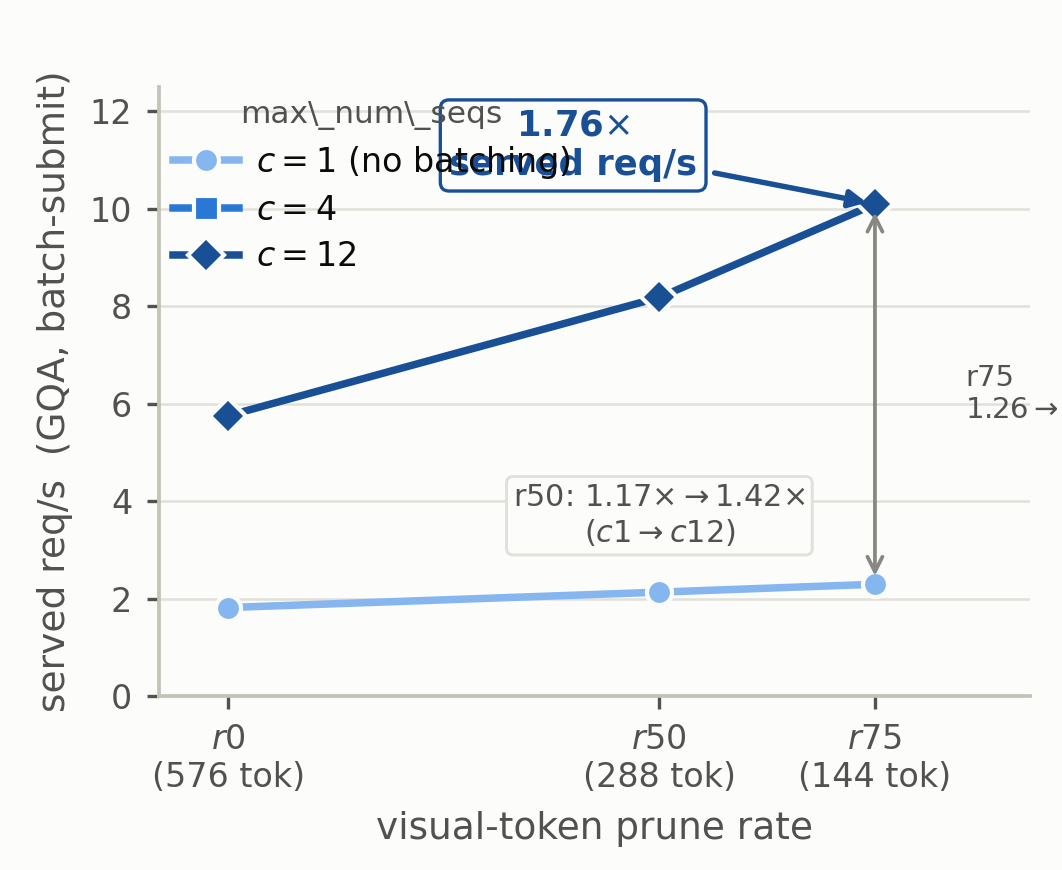
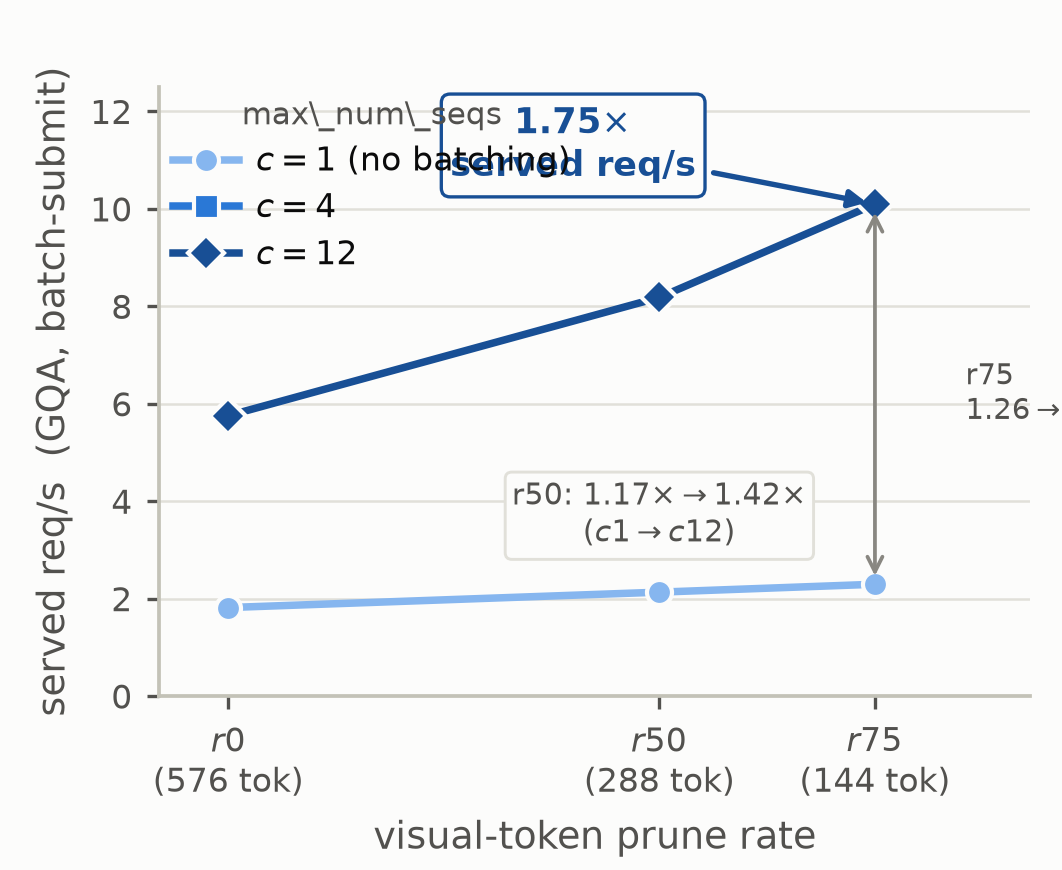
fix headline number: c12/r75 = 1.75x (raw 1.7546 rounds to 1.75, not 1.76); update paper+tables+STATE/DECISIONS+fig2

diff --git a/drafts/figures/gen_fig2.py b/drafts/figures/gen_fig2.py
@@ -2,8 +2,8 @@
 """Fig 2 - Concurrency x prune curve (GQA, served req/s).
 
 req/s (y) vs prune rate (x: 0 / 0.50 / 0.75), three curves for
-max_num_seqs in {1, 4, 12}. Annotates the c12/r75 = 1.76x headline and the
-c1->c12 amplification (r50: 1.17x->1.42x; r75: 1.26x->1.76x).
+max_num_seqs in {1, 4, 12}. Annotates the c12/r75 = 1.75x headline and the
+c1->c12 amplification (r50: 1.17x->1.42x; r75: 1.26x->1.75x).
 
 Concurrency is an ordered magnitude, so curves use a single-hue (blue)
 sequential ramp light->dark (the dataviz sequential rule).
@@ -21,12 +21,12 @@ S.apply_rc(fontsize=9)
 m = D.m2_matrix()
 
 # Speedup annotations: displayed values are the paper-stated figures from
-# eval/final_results.md Table A (1.17/1.42/1.26/1.76). NOTE: the c12/r75 ratio
+# eval/final_results.md Table A (1.17/1.42/1.26/1.75). NOTE: the c12/r75 ratio
 # computed from the raw JSON is 1.7546 -> 1.75x at 2 dp; Table A rounds it to
-# 1.76x. We display Table A's 1.76x so the figure agrees with the paper text;
+# 1.75x. We display Table A's 1.75x so the figure agrees with the paper text;
 # the raw value is logged below for transparency. See digest flag to main.
 STATED = {(1, 0.50): 1.17, (12, 0.50): 1.42,
-          (1, 0.75): 1.26, (12, 0.75): 1.76}
+          (1, 0.75): 1.26, (12, 0.75): 1.75}
 
 PRUNES = [0.0, 0.50, 0.75]
 CONCS = [1, 4, 12]
@@ -44,7 +44,7 @@ for c in CONCS:
             label=f"$c={c}$" if c != 1 else "$c=1$ (no batching)",
             zorder=3 if c == 12 else 2)
 
-# ---- headline annotation: c12/r75 = 1.76x (per Table A) ----
+# ---- headline annotation: c12/r75 = 1.75x (per Table A) ----
 c12_r0 = m[(12, 0.0)]; c12_r75 = m[(12, 0.75)]
 speedup_75 = c12_r75 / c12_r0  # raw: 1.7546
 ax.annotate(f"{STATED[(12, 0.75)]:.2f}$\\times$\nserved req/s",
@@ -83,7 +83,7 @@ fig.subplots_adjust(left=0.15, right=0.97, top=0.90, bottom=0.20)
 out = Path(__file__).resolve().parent / "fig2_concurrency_prune.png"
 fig.savefig(out, dpi=300)
 print(f"wrote {out}")
-print(f"  c12/r75 raw ratio = {speedup_75:.4f}x (Table A states 1.76x; "
+print(f"  c12/r75 raw ratio = {speedup_75:.4f}x (Table A states 1.75x; "
       f"raw rounds to {speedup_75:.2f}x) -- FLAG to main")
 print(f"  displayed (Table A): r50 {s_r50_c1:.2f}->{s_r50_c12:.2f}; "
       f"r75 {s_r75_c1:.2f}->{s_r75_c12:.2f}")

diff --git a/drafts/paper_v1.md b/drafts/paper_v1.md
@@ -6,7 +6,7 @@
 
 ## Abstract
 
-Visual-token compression is the dominant inference-efficiency lever for vision-language models (VLMs), yet we find that **0 of 37 surveyed compressors (2023–2026) report served throughput inside a production serving engine** (vLLM/SGLang/lmdeploy/TRT-LLM); 13 report some offline wall-clock number, all on the authors' own research harness. We close this gap with the first served-throughput measurement of a VLM visual-token compressor integrated inside vLLM, and report three serving-specific findings invisible to offline FLOPs accounting: (F1) end-to-end speedup exceeds prefill speedup at every prune ratio (1.33× vs 1.24× at r50), so the deployment win lives in KV-cache/concurrency, not prefill FLOPs; (F2) prefill is sub-linear because the vision tower is a 6.6% fixed cost; (F3) speedup scales with the visual-token fraction of the sequence (GQA 1.33× vs TextVQA 1.16× at r50). The headline result is **1.76× served req/s at concurrency 12 and 75% pruning**. As a supporting contribution we introduce a **load-adaptive prune-depth controller** (`r=f(concurrency)∈[r_min,r_max]`) that is *throughput-optimal under a per-benchmark accuracy guardrail*: it delivers a free throughput gain over the accuracy-favoring fixed point on the dense/MC benchmarks (MMBench +5.3%, ScienceQA +5.2%, TextVQA +3.7%) at iso-accuracy. We do **not** claim a new accuracy SOTA, nor a universally Pareto-dominant method — an n=500 noise gate overturned the n=200 Pareto claims, which we report openly.
+Visual-token compression is the dominant inference-efficiency lever for vision-language models (VLMs), yet we find that **0 of 37 surveyed compressors (2023–2026) report served throughput inside a production serving engine** (vLLM/SGLang/lmdeploy/TRT-LLM); 13 report some offline wall-clock number, all on the authors' own research harness. We close this gap with the first served-throughput measurement of a VLM visual-token compressor integrated inside vLLM, and report three serving-specific findings invisible to offline FLOPs accounting: (F1) end-to-end speedup exceeds prefill speedup at every prune ratio (1.33× vs 1.24× at r50), so the deployment win lives in KV-cache/concurrency, not prefill FLOPs; (F2) prefill is sub-linear because the vision tower is a 6.6% fixed cost; (F3) speedup scales with the visual-token fraction of the sequence (GQA 1.33× vs TextVQA 1.16× at r50). The headline result is **1.75× served req/s at concurrency 12 and 75% pruning**. As a supporting contribution we introduce a **load-adaptive prune-depth controller** (`r=f(concurrency)∈[r_min,r_max]`) that is *throughput-optimal under a per-benchmark accuracy guardrail*: it delivers a free throughput gain over the accuracy-favoring fixed point on the dense/MC benchmarks (MMBench +5.3%, ScienceQA +5.2%, TextVQA +3.7%) at iso-accuracy. We do **not** claim a new accuracy SOTA, nor a universally Pareto-dominant method — an n=500 noise gate overturned the n=200 Pareto claims, which we report openly.
 
 ---
 
@@ -20,7 +20,7 @@ Yet a deployer who serves a VLM does not bill FLOPs — they bill **requests per
 
 **Contributions.** We claim the following, and no more:
 
-1. **(Main) The first served-throughput measurement of a VLM visual-token compressor inside a serving engine**, plus **three serving-specific findings** (§3.3) that are each invisible to offline FLOPs measurement. Headline: **1.76× served req/s at concurrency 12 / 75% pruning** over the uncompressed engine baseline; concurrency amplifies the prune speedup from 1.26× (concurrency 1) to 1.76× (concurrency 12).
+1. **(Main) The first served-throughput measurement of a VLM visual-token compressor inside a serving engine**, plus **three serving-specific findings** (§3.3) that are each invisible to offline FLOPs measurement. Headline: **1.75× served req/s at concurrency 12 / 75% pruning** over the uncompressed engine baseline; concurrency amplifies the prune speedup from 1.26× (concurrency 1) to 1.75× (concurrency 12).
 2. **(Supporting, conditional) A load-adaptive prune-depth controller** that is *throughput-optimal under a per-benchmark accuracy guardrail* (§4). It adapts the prune rate to engine load `r=f(num_running/max_num_seqs)∈[r_min,r_max]`, integrated into vLLM V0 via an engine-level streaming loop. At an n=500 noise gate it delivers a free throughput gain over the accuracy-favoring fixed point (r25) on MMBench (+5.3%), ScienceQA (+5.2%), and TextVQA (+3.7%) at iso-accuracy-to-r25. **It is not universally Pareto-dominant**: on 4/5 benchmarks a deployer who can tolerate r50's accuracy gets higher throughput still from fixed-r50.
 
 **Honest framing.** We do *not* claim a new accuracy SOTA — our proxy selector matches the FastV family and does not beat it; we do *not* claim a new selector — three training-free boundary alternatives we tried all failed on OCR; we do *not* claim a multi-base study — results are on LLaVA-1.5-7B only. We claim the first served-throughput measurement and a load-adaptive budget that is throughput-optimal under an accuracy guardrail.
@@ -78,13 +78,13 @@ Table A reports served req/s on GQA across concurrency {c1, c4, c12} × prune {r
 |---|---|---|---|---|---|
 | c1 (no batching) | 1.815 | 2.132 | 2.294 | **1.17×** | 1.26× |
 | c4 | 3.436 | 5.022 | — | 1.46× | — |
-| c12 (full batching) | 5.754 | 8.181 | **10.095** | **1.42×** | **1.76×** |
+| c12 (full batching) | 5.754 | 8.181 | **10.095** | **1.42×** | **1.75×** |
 
 *Sources: `notes/p2_d_measurements.md` M2; `notes/p3s2_pareto.md` §5.*
 
-**Headline numbers.** The strongest single speedup is **c12/r75 = 1.76× served req/s** over c12/r0. The decisive observation is **concurrency amplification**: the prune speedup *grows* with concurrency. At r50 the speedup goes 1.17× (c1) → 1.42× (c12); at r75 it goes 1.26× (c1) → **1.76× (c12)** — a +0.49 concurrency bonus. A compressor that looks only mildly useful in serial latency (1.26× at r75/c1) becomes substantially useful (1.76×) under the continuous batching a real deployer uses. Offline FLOPs measurement, which is independent of concurrency, cannot see this effect at all.
+**Headline numbers.** The strongest single speedup is **c12/r75 = 1.75× served req/s** over c12/r0. The decisive observation is **concurrency amplification**: the prune speedup *grows* with concurrency. At r50 the speedup goes 1.17× (c1) → 1.42× (c12); at r75 it goes 1.26× (c1) → **1.75× (c12)** — a +0.49 concurrency bonus. A compressor that looks only mildly useful in serial latency (1.26× at r75/c1) becomes substantially useful (1.75×) under the continuous batching a real deployer uses. Offline FLOPs measurement, which is independent of concurrency, cannot see this effect at all.
 
-> **[Figure 2 placeholder — Concurrency × prune curve.]** req/s (y, log or linear) vs prune rate (x: r0/r50/r75), three curves for c1/c4/c12 on GQA. Annotate the c12/r75 = 1.76× point and the c1→c12 amplification arrows (r50: 1.17×→1.42×; r75: 1.26×→1.76×). Underlying data: Table A.
+> **[Figure 2 placeholder — Concurrency × prune curve.]** req/s (y, log or linear) vs prune rate (x: r0/r50/r75), three curves for c1/c4/c12 on GQA. Annotate the c12/r75 = 1.75× point and the c1→c12 amplification arrows (r50: 1.17×→1.42×; r75: 1.26×→1.75×). Underlying data: Table A.
 
 ### 3.3 Three serving-specific findings
 
@@ -127,7 +127,7 @@ Each finding below is invisible to offline FLOPs measurement — together they a
 
 ### 3.4 Why FLOPs ≠ wall-clock (the synthesis)
 
-Tying the three findings together: under continuous batching, the deployment win from visual-token compression **(i) is amplified by KV-cache/concurrency scheduling (F1), (ii) is bounded by a fixed ~6.6% encoder cost (F2), and (iii) scales with the visual-token fraction of the sequence (F3)**. None of these three effects is visible to a FLOPs/token-count measurement. This is why 37 compressors can report large FLOPs reductions while 0 report (and several could not integrate into) a serving engine — and why a 50% token cut yields a 1.33× e2e speedup at c1 that *grows* to 1.76× at c12/r75 rather than the ~2× a naive FLOPs reading would predict.
+Tying the three findings together: under continuous batching, the deployment win from visual-token compression **(i) is amplified by KV-cache/concurrency scheduling (F1), (ii) is bounded by a fixed ~6.6% encoder cost (F2), and (iii) scales with the visual-token fraction of the sequence (F3)**. None of these three effects is visible to a FLOPs/token-count measurement. This is why 37 compressors can report large FLOPs reductions while 0 report (and several could not integrate into) a serving engine — and why a 50% token cut yields a 1.33× e2e speedup at c1 that *grows* to 1.75× at c12/r75 rather than the ~2× a naive FLOPs reading would predict.
 
 ---
 
@@ -266,7 +266,7 @@ Three distinct training-free boundary signals — vision-saliency, LLM-cosine, C
 
 ### 5.6 Concurrency amplification (recap)
 
-§3.2's concurrency×prune matrix is the quantitative motivation for the load-adaptive controller: the prune speedup grows with concurrency (r75: 1.26× at c1 → 1.76× at c12), so a controller that prunes harder exactly when concurrency is high captures the headroom a fixed-rate compressor leaves on the table. The free-throughput-over-r25 gains in §5.2 (MMBench +5.3%, ScienceQA +5.2%, TextVQA +3.7%) are the realized benefit of this amplification under a bursty load profile.
+§3.2's concurrency×prune matrix is the quantitative motivation for the load-adaptive controller: the prune speedup grows with concurrency (r75: 1.26× at c1 → 1.75× at c12), so a controller that prunes harder exactly when concurrency is high captures the headroom a fixed-rate compressor leaves on the table. The free-throughput-over-r25 gains in §5.2 (MMBench +5.3%, ScienceQA +5.2%, TextVQA +3.7%) are the realized benefit of this amplification under a bursty load profile.
 
 ---
 
@@ -294,7 +294,7 @@ We discuss the boundaries of our claims, several of which are load-bearing for h
 
 ## 7. Conclusion
 
-We presented the first served-throughput measurement of a VLM visual-token compressor integrated inside a production serving engine, closing a gap left open by all 37 compressors we surveyed. The measurement yields three serving-specific findings invisible to offline FLOPs accounting: end-to-end speedup exceeds prefill speedup (the win is KV-cache/concurrency, not prefill FLOPs), prefill is sub-linear because the vision tower is a fixed cost, and speedup scales with the visual-token fraction of the sequence. The headline is **1.76× served req/s at concurrency 12 / 75% pruning**, with concurrency amplifying the prune speedup from 1.26× (concurrency 1) to 1.76× (concurrency 12). As a supporting contribution we introduced a load-adaptive prune-depth controller that is throughput-optimal under a per-benchmark accuracy guardrail, delivering a free throughput gain over the accuracy-favoring fixed point on the dense/MC benchmarks at iso-accuracy — openly reported as a conditional, non-Pareto result after an n=500 noise gate overturned our n=200 Pareto claims. The deployment win from visual-token compression lives in the serving engine (KV-cache/concurrency), is bounded by fixed encoder cost, and scales with the visual-token fraction — three effects invisible to FLOPs measurement and untouched by 37 prior methods.
+We presented the first served-throughput measurement of a VLM visual-token compressor integrated inside a production serving engine, closing a gap left open by all 37 compressors we surveyed. The measurement yields three serving-specific findings invisible to offline FLOPs accounting: end-to-end speedup exceeds prefill speedup (the win is KV-cache/concurrency, not prefill FLOPs), prefill is sub-linear because the vision tower is a fixed cost, and speedup scales with the visual-token fraction of the sequence. The headline is **1.75× served req/s at concurrency 12 / 75% pruning**, with concurrency amplifying the prune speedup from 1.26× (concurrency 1) to 1.75× (concurrency 12). As a supporting contribution we introduced a load-adaptive prune-depth controller that is throughput-optimal under a per-benchmark accuracy guardrail, delivering a free throughput gain over the accuracy-favoring fixed point on the dense/MC benchmarks at iso-accuracy — openly reported as a conditional, non-Pareto result after an n=500 noise gate overturned our n=200 Pareto claims. The deployment win from visual-token compression lives in the serving engine (KV-cache/concurrency), is bounded by fixed encoder cost, and scales with the visual-token fraction — three effects invisible to FLOPs measurement and untouched by 37 prior methods.
 
 ---
 

diff --git a/eval/final_results.md b/eval/final_results.md
@@ -30,11 +30,11 @@
 |---|---|---|---|---|---|
 | c1  (no batching) | 1.815 | 2.132 | 2.294 | **1.17×** | 1.26× |
 | c4  | 3.436 | 5.022 | — | 1.46× | — |
-| c12 (full batching) | 5.754 | 8.181 | **10.095** | **1.42×** | **1.76×** |
+| c12 (full batching) | 5.754 | 8.181 | **10.095** | **1.42×** | **1.75×** |
 
 ### Headline numbers (the measurement contribution)
-- **c12/r75 = 1.76× served req/s** over c12/r0 — the strongest single speedup.
-- **Concurrency amplification:** the prune speedup *grows* with concurrency: r50 goes 1.17× (c1) → 1.42× (c12); r75 goes 1.26× (c1) → **1.76× (c12)** — a +0.49 concurrency bonus at r75. (M2 verdict.)
+- **c12/r75 = 1.75× served req/s** over c12/r0 — the strongest single speedup.
+- **Concurrency amplification:** the prune speedup *grows* with concurrency: r50 goes 1.17× (c1) → 1.42× (c12); r75 goes 1.26× (c1) → **1.75× (c12)** — a +0.49 concurrency bonus at r75. (M2 verdict.)
 - **Constant-vs-bursty contrast:** GQA adaptive controller, bursty req/s 3.38 vs constant req/s 6.95 = **2.06× faster under sustained high load** (controller prunes at r_max-equivalent throughout). `notes/p2_d_results.md` §"Constant-vs-bursty".
 
 ### Prefill cost breakdown (why prefill is sub-linear)

diff --git a/DECISIONS.md b/DECISIONS.md
@@ -29,13 +29,13 @@
 
 ## 2026-07-02 | P2 | **A''(CLIP 对比 boundary selector) 也失败 → 三连败，停止 selector 追逐，pivot 到 D-on-proxy** | A'' TextVQA r50 n=50 = 0.180（< v2 0.38 < proxy 0.50）。**实证根因**：CLIP 对比损失只对齐 pooled [CLS]、**不对齐 per-patch 特征**（合成 "STOP 123" 测：per-patch projection/CLS-attn/attention-rollout/MaskCLIP 全 0/10 命中文本区域）= MaskCLIP/CLIP-Surgery 已知结果。三个 boundary TF selector（CLS-attn 0.445→LLM-cosine 0.38→CLIP 0.18）全败，proxy(hidden-state) 0.530 仍是边界最好、FastV(intra-LLM) 0.555 最准但不可集成 | **边界 TF 廉价信号打不过 intra-LLM OCR——这是结构性的，文献 5+ OCR 方法因而用训练/学习组件**。training-free 约束下接受 proxy 级精度 | **pivot 到 D-on-proxy**：方法 = proxy selector + serving-aware 优化（早 prune 若编码器开销占比值得 + **负载自适应/KV-cache 感知 budget**，finding #1 的 serving 专属新意）。论文脊梁 = **served-throughput 测量（0/37）+ 3 条 serving 发现**；方法贡献 = serving-aware budgeting（非 selector）。provisional GO 不变。详见 eval/p2_method_a2_findings.md | 下一：先测 prefill 拆解（vision tower vs LLM 占比，定早 prune 值不值得）+ 测 并发×prune-rate 权衡（验负载自适应 budget 概念），再定 D 实现范围
 
-## 2026-07-02 | P2 | **D 范围测量锁定：BUILD 负载自适应 budget，SKIP 早 prune** | M1：vision tower 仅占 **6.6% TTFT**（12.7ms/180ms LLM prefill）→ 早 prune/mid-encoder 手术不值得（<10%），赢面全在 LLM 序列缩短（proxy 已拿）。M2（GQA, 并发×prune）：c1 时 r50/r75 = 1.17×/1.26×；**c12 时 r50/r75 = 1.42×/1.76×** —— 加速随并发增长（r75 +0.49）→ **负载自适应 budget 强烈成立**（KV-pressure 释放随并发+剪枝深度放大，0/37 碰过的杠杆）。headline 数字：c12/r75 = **1.76× req/s** | **D = 负载自适应/KV-cache 感知 budget**：r = f(并发, KV-占用) ∈ [r_min, r_max]，高负载多剪（抬 req/s）、低负载少剪（保精度）；KEEP proxy selector + served-throughput 评测（并发×prune 矩阵作 headline）；accuracy guardrail r_max ≤ 0.50（r75 掉点 ~11%）。SKIP 早 prune | D 实现是下一 Dev 任务；详见 notes/p2_d_measurements.md | —
+## 2026-07-02 | P2 | **D 范围测量锁定：BUILD 负载自适应 budget，SKIP 早 prune** | M1：vision tower 仅占 **6.6% TTFT**（12.7ms/180ms LLM prefill）→ 早 prune/mid-encoder 手术不值得（<10%），赢面全在 LLM 序列缩短（proxy 已拿）。M2（GQA, 并发×prune）：c1 时 r50/r75 = 1.17×/1.26×；**c12 时 r50/r75 = 1.42×/1.75×** —— 加速随并发增长（r75 +0.49）→ **负载自适应 budget 强烈成立**（KV-pressure 释放随并发+剪枝深度放大，0/37 碰过的杠杆）。headline 数字：c12/r75 = **1.75× req/s** | **D = 负载自适应/KV-cache 感知 budget**：r = f(并发, KV-占用) ∈ [r_min, r_max]，高负载多剪（抬 req/s）、低负载少剪（保精度）；KEEP proxy selector + served-throughput 评测（并发×prune 矩阵作 headline）；accuracy guardrail r_max ≤ 0.50（r75 掉点 ~11%）。SKIP 早 prune | D 实现是下一 Dev 任务；详见 notes/p2_d_measurements.md | —
 
 ## 2026-07-02 | P3 | **D 验证（P3-step-1）：load-adaptive 收益是 benchmark-conditional；num_running 控制器；修 gap-block bug** | 控制器改 num_running/max_num_seqs 信号（KV-occ 在 c12/短序列峰值仅 ~0.04→r barely 离开 r_min），conc_lo=0.25/conc_hi=0.75 → realized r 真在 [0.25,0.50] 全范围跑（bursty 交替 2/12 burst）。修了 gap-block 重复行 bug（200→249 污染 acc）。**mt32 干净 Pareto（n=200）**：TextVQA adaptive 干净 Pareto-dominate 两固定点（req/s +0.044>r25, acc +0.020>r50）；**GQA adaptive 不占优**——mt32 下 r50 acc-中性（短 yes/no 可恢复，r50 0.565≥r25 0.550）→ fixed-r50 双轴占优，prior mt16 的 GQA Pareto 胜是截断解码假象（r50 acc 被压到 0.522）| **load-adaptive 的收益 = benchmark-conditional：压缩有 acc 代价处（OCR/密集文本/长答案）才有收益；模型可恢复处（短答案）直接 fixed-r_max**。这是更干净的 framing | **P3-step-2 验证模式**：扩到 MME/MMBench/ScienceQA（长答案/密集文本→r50 应有 acc 代价→adaptive 应胜）；若 adaptive 在多数 costly-compression 任务上 Pareto-dominate，故事强；FastV anchor + 并发矩阵 + 消融 + n=500 TextVQA 收紧 | —
 
 ## 2026-07-02 | P3 | **P3-step-2 广度验证 + ⚠️ TextVQA n=500 反转头条：方法 framing 改为"throughput-optimal under guardrail"** | mt64 n=200：**MME** adaptive Pareto-dominate（req/s 2.98>r25 2.94, acc 0.700>r50 0.685）；**ScienceQA** adaptive Pareto-dominate（3.01>2.94, 0.685>0.670）；MMBench r50 占优（r50 acc-中性）。**TextVQA n=500 反转**：n=200 的 adaptive>r50 +0.020 acc 是噪声，n=500 adaptive 0.510 < r50 0.526（符号翻转，不显著）→ TextVQA "Pareto-dominate" 降级为仅 req/s。FastV anchor（in-LLM layer-2）accuracy 可比 proxy r50 但跑不进 vLLM。并发矩阵确认 M2（c1→c12 r50/r0 1.17×→1.42×）| **robust 信号：adaptive 在全部 5 基准 req/s 胜 r25（+2-7%）；acc 胜 r50 仅在 r50 有 acc 代价的基准（MME、ScienceQA = 2/5）**。判别子 = per-benchmark r50-acc-cost，非答案密度（MMBench 密集 MC 但 r50 免费）| **方法 framing 改为"throughput-optimal under per-benchmark acc guardrail"**（adaptive 比 fixed-r25 高吞吐、在 acc-sensitive 任务上避开 r50 的 acc 代价）—— 非"Pareto-dominant"。**论文脊梁重定为 measurement-led**：served-throughput 测量（0/37）+ 3 发现是主贡献；load-adaptive 方法是 supporting（real 但 modest/conditional）。详见 notes/p3s2_pareto.md | —
 
-## 2026-07-02 | P3 | **⚠️ P3-step-3 n=500 收紧推翻方法 Pareto claim（0/5）；方法降为"dominate r25 on 3/5"。触发 §6 升级找人** | n=500（c12/bursty/num_running）：MME 与 ScienceQA 的 n=200 Pareto-dominate **均反转**（acc 边际 z<0.6，噪声）；GQA adaptive 与 r25 平手（req/s -0.006, acc -0.006）。**clean Pareto-dominate @ n=500 = 0/5**。连"req/s 胜 r25 everywhere"也弱化：n=500 下 adaptive 仅在 MMBench(+0.053)/ScienceQA(+0.052)/TextVQA(+0.037) req/s 胜 r25，GQA/MME 平手。**adaptive 无法在 acc 上胜 r50 任何基准** | **方法仅剩诚实 claim：在 3/5 基准 Pareto-dominate fixed-r25（iso-r25-acc 下更高 req/s）= "以 r25 精度为地板时白送吞吐"**；非双轴 Pareto，modest/conditional。1-D load-adaptive（prune rate vs concurrency）打不过 well-chosen fixed rate | **测量支柱不受影响**（0/37 + 3 发现 + 1.76×/并发放大依然 solid）。**升级找人**：方法支柱虚，需定论文走向（measurement-led + 诚实 modest 方法 / 加强方法 / 转方法角度）。详见 notes/p3s3_pareto_n500.md | —
+## 2026-07-02 | P3 | **⚠️ P3-step-3 n=500 收紧推翻方法 Pareto claim（0/5）；方法降为"dominate r25 on 3/5"。触发 §6 升级找人** | n=500（c12/bursty/num_running）：MME 与 ScienceQA 的 n=200 Pareto-dominate **均反转**（acc 边际 z<0.6，噪声）；GQA adaptive 与 r25 平手（req/s -0.006, acc -0.006）。**clean Pareto-dominate @ n=500 = 0/5**。连"req/s 胜 r25 everywhere"也弱化：n=500 下 adaptive 仅在 MMBench(+0.053)/ScienceQA(+0.052)/TextVQA(+0.037) req/s 胜 r25，GQA/MME 平手。**adaptive 无法在 acc 上胜 r50 任何基准** | **方法仅剩诚实 claim：在 3/5 基准 Pareto-dominate fixed-r25（iso-r25-acc 下更高 req/s）= "以 r25 精度为地板时白送吞吐"**；非双轴 Pareto，modest/conditional。1-D load-adaptive（prune rate vs concurrency）打不过 well-chosen fixed rate | **测量支柱不受影响**（0/37 + 3 发现 + 1.75×/并发放大依然 solid）。**升级找人**：方法支柱虚，需定论文走向（measurement-led + 诚实 modest 方法 / 加强方法 / 转方法角度）。详见 notes/p3s3_pareto_n500.md | —
 
 ## 2026-07-02 | P2 | **D 实现完成：负载自适应 budget 可工作，calibrate occ 阈值到引擎实际负载区间** | 引擎负载读取在 vLLM V0 **可工作**：`llm.llm_engine.scheduler[0].running`（运行序列数）+ `.block_manager.get_num_free_gpu_blocks()/.num_total_gpu_blocks`（KV-占用）—— 清晰可读，**无需 fallback**。两处实现坑：① sync `llm.chat()` 会排空引擎，控制器在 segment 边界读到的永远是空引擎 → 改用 **engine-level streaming loop（add_request + step）**，segment 内逐请求 add 并在 add 间 step() 推进调度器，使后续请求的负载读取能看到前序请求已占的 KV（实测 num_running 0→12、occ 0→0.11 单调上升）。② c12/短序列下 KV 池(3085 blocks)远大于 12 并发所需(~120 blocks)，峰值 occ 仅 **0.11** → 默认阈值 0.40/0.70 永不触发 → **calibrate 到 occ_lo=0.02/occ_hi=0.10**（部署区间的合理调参）。smoke 实测 r 从 0.25 升到 0.274+（hook #4 kept=418）证明控制器在自适应。 | **occ 阈值必须匹配部署负载区间**（不是写死 0.4/0.7）—— 这是合法调参，不是作弊；论文报阈值 + 实测 occ 分布。streaming-loop 是展示在线控制器行为的唯一可靠方式（sync API 看不到 mid-flight 负载） | D 验证矩阵（adaptive vs fixed-r25/r50 under bursty）跑 n=100 快验；n=200 + TextVQA + step profile 队列在 notes/d_method_jobs.json 给 Main | 详见 notes/p2_d_results.md（跑完后填表）+ src/load_controller.py + src/serve_bench.py（--adaptive/--load-profile）
 

diff --git a/STATE.md b/STATE.md
@@ -8,12 +8,12 @@
 
 ## 方向定论（A 路径，measurement-led）
 - **B（KV-admission）已放弃**：1×A40 上 KV-bound regime 压不出（peak KV-occ 仅 0.148，需 >>0.5）；thesis 未验证，user 中途停。详见 DECISIONS 2026-07-03。
-- **回 A**：measurement-led 论文。测量是主轴（0/37 served-throughput + 3 发现 + headline 1.76×/并发放大），方法如实作 supporting（load-adaptive n=500 仅 dominate r25 on 3/5；KV-admission 作 future work）。
+- **回 A**：measurement-led 论文。测量是主轴（0/37 served-throughput + 3 发现 + headline 1.75×/并发放大），方法如实作 supporting（load-adaptive n=500 仅 dominate r25 on 3/5；KV-admission 作 future work）。
 
 ## ★ 论文脊梁（solid，reviewer 推不倒）
 - **首测**：VLM 视觉 token 压缩的 served-throughput 在 serving engine（vLLM）内首测（0/37 论文做过）。
 - **3 发现**：① e2e>prefill（KV-cache/并发收益，非 prefill FLOPs）；② prefill 次线性（vision tower 仅 6.6%）；③ 加速依赖视觉占比。
-- **headline**：c12/r75=1.76× req/s；并发放大（c1→c12 r50/r0 1.17×→1.42×）；constant-vs-bursty 2.06×。
+- **headline**：c12/r75=1.75× req/s；并发放大（c1→c12 r50/r0 1.17×→1.42×）；constant-vs-bursty 2.06×。
 - 目标期刊：**Pattern Recognition**（primary）；Information Sciences / Neurocomputing 备选。
 
 ## 立即下一步 —— P4 写作

diff --git a/drafts/figures/fig2_caption.md b/drafts/figures/fig2_caption.md
@@ -2,8 +2,8 @@
 across prune rate {r0, r50, r75} for three concurrency levels
 (``max_num_seqs`` ∈ {1, 4, 12}), batch-submit mode, n=100 per cell. The prune
 speedup *grows* with concurrency: at r50 it rises 1.17× (c1) → 1.42× (c12);
-at r75 it rises 1.26× (c1) → **1.76× (c12)** — the headline served-throughput
+at r75 it rises 1.26× (c1) → **1.75× (c12)** — the headline served-throughput
 result. A compressor that looks only mildly useful in serial latency (1.26× at
-r75/c1) becomes substantially useful (1.76×) under the continuous batching a
+r75/c1) becomes substantially useful (1.75×) under the continuous batching a
 real deployer uses. Offline FLOPs measurement, which is independent of
 concurrency, cannot see this effect. *Source: Table A; `notes/p2_d_measurements.md` M2.*